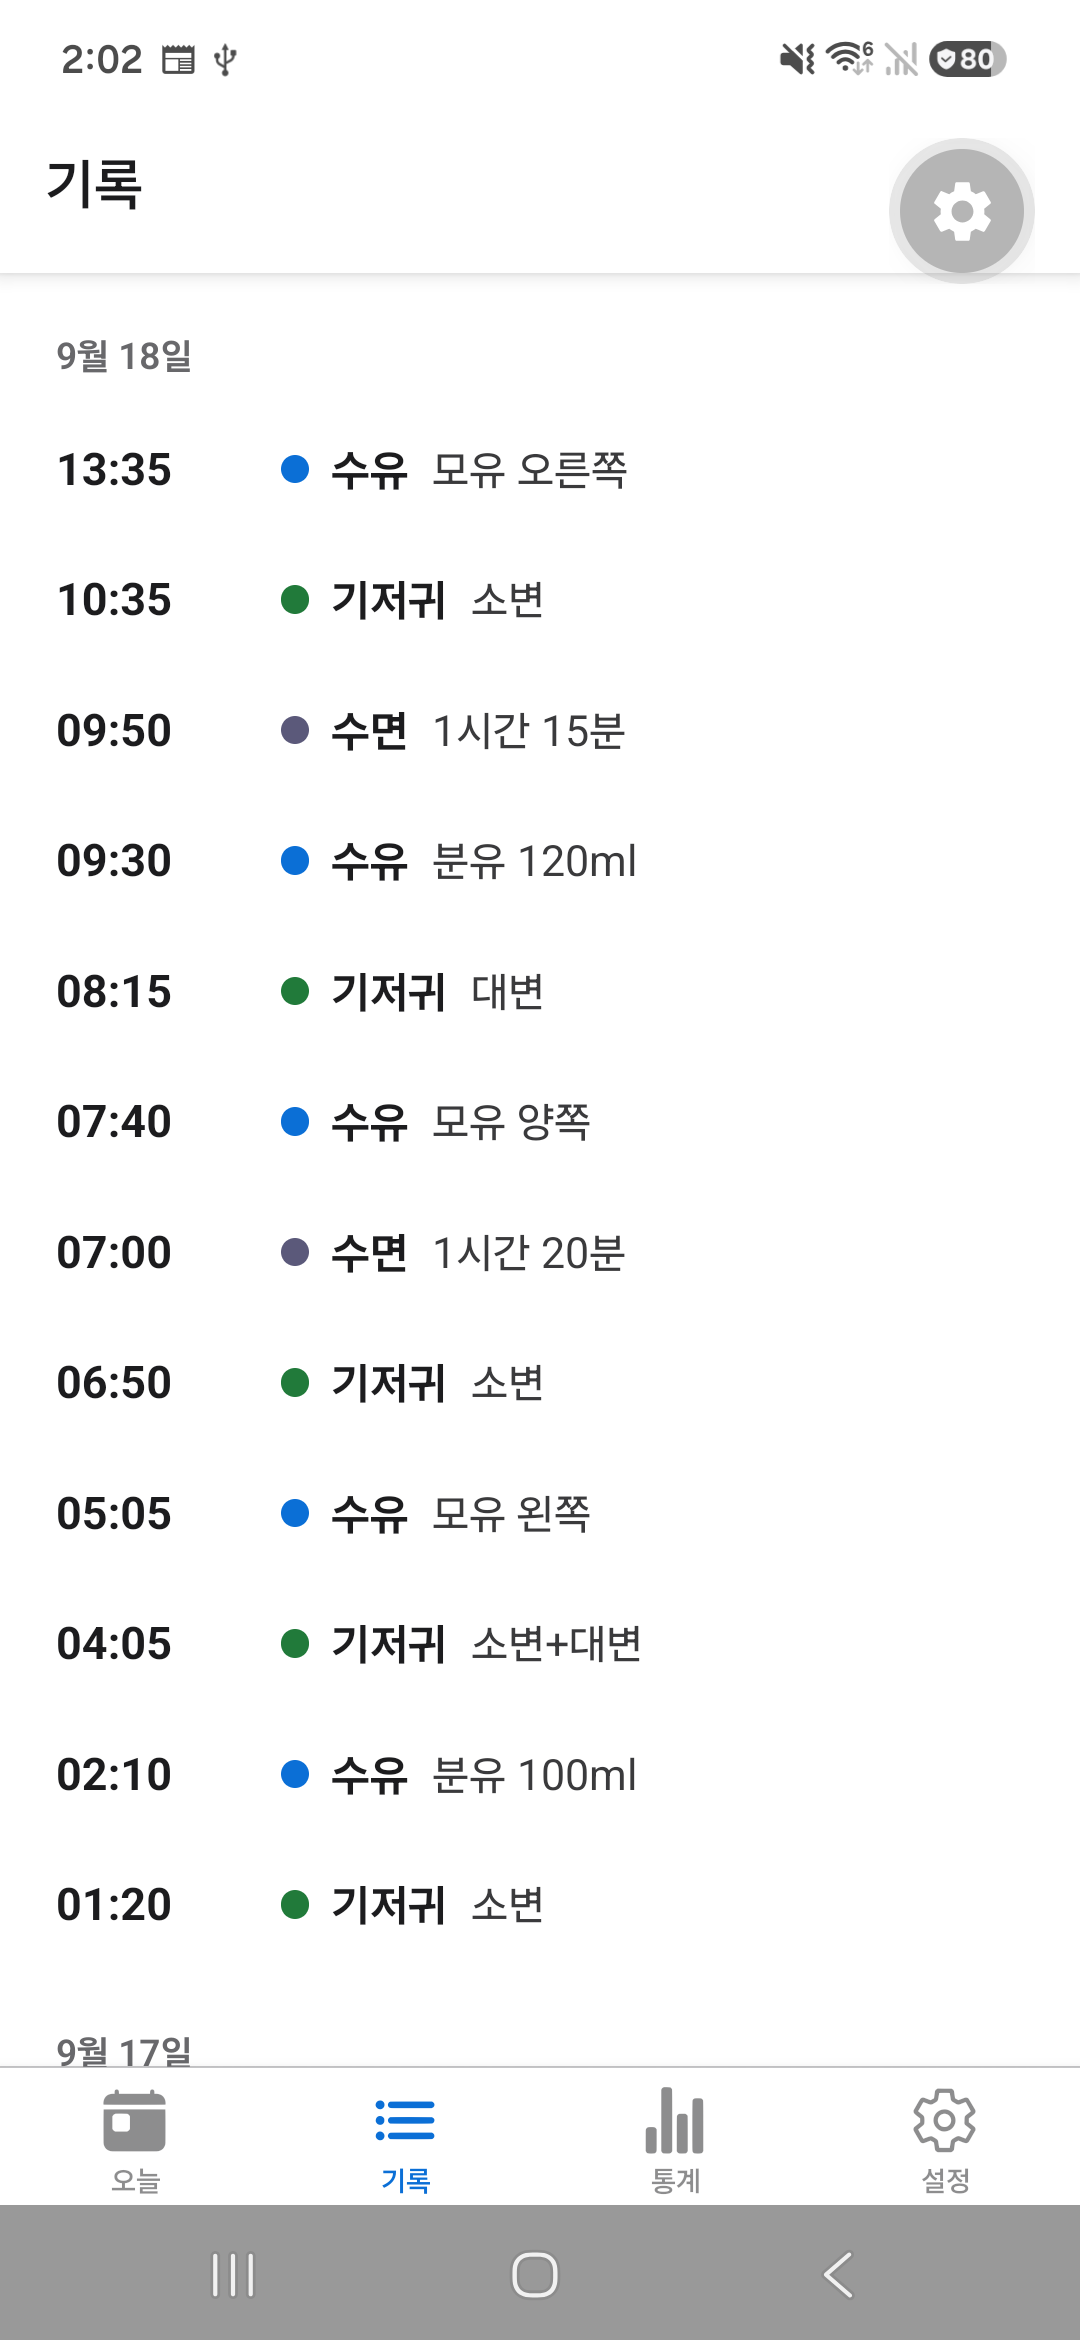
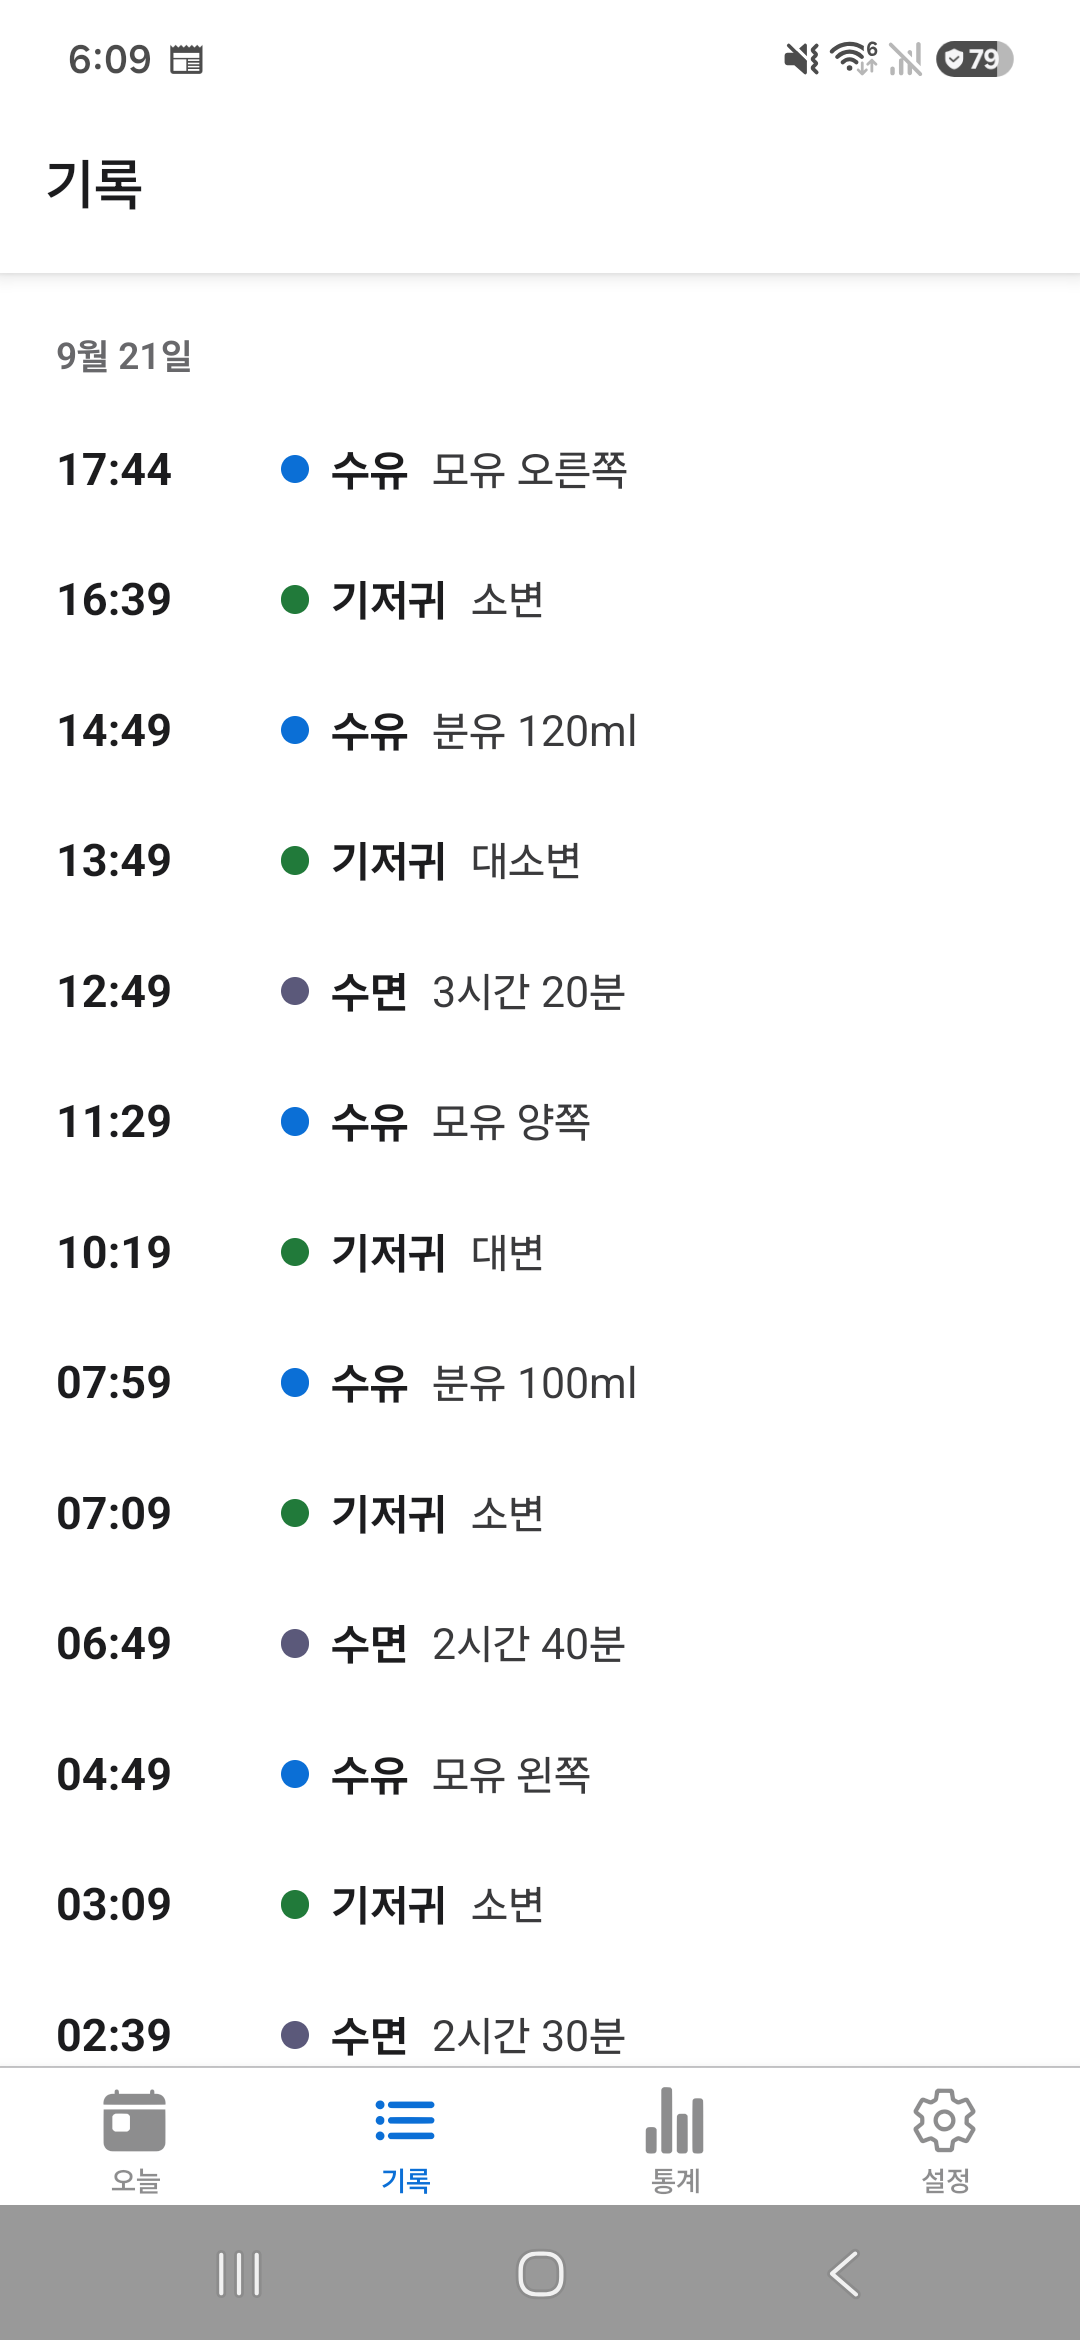
[출시]1.4.0 스크린샷과 등록정보, 데모 시드 스크립트 추가
촬영하려다 **데모 DB를 재생성할 방법이 없다**는 걸 알았다. 기기에 있는 DB가
전부였고 저장소에도 히스토리에도 시드가 없었다. 그게 날아가면 같은 데이터로
다시 찍을 수 없다. `scripts/seed-demo.mjs`가 그 복구 수단이다.

기기 시계를 과거로 돌리는 대신 **기준 시각에서 거꾸로** 배치한다. 시계를
되돌리면 다른 앱까지 영향을 받고, 복구를 잊으면 그때부터 미래 기록이 쌓인다.
재현성은 "같은 기준 시각을 주면 같은 DB가 나온다"는 뜻이다 —
`--reference-time`을 주면 고정되고, 생략하면 실행 시각을 쓴다. 덕분에 언제
찍어도 `마지막 수유`가 `25분 전`으로 나온다.

시드가 지키는 것:
- 달력 값으로 시각을 만든다. 자정 epoch에 분을 더하면 서머타임 전환일에
  한 시간 어긋난다 — 뉴욕 11/1에 `13:35`가 `12:35`가 된다
- 오늘 수유 5건·기저귀 5건·수면 3건 510분·분유 220ml·마지막 수유 25분 전·
  수면 겹침 0건·미래 기록 0건을 검사하고, 어긋나면 SQL을 내보내지 않는다.
  이른 시각에 돌리면 오늘 기록 일부가 어제로 넘어가는데, 그 상태로 찍힌
  스크린샷은 되돌릴 수 없다
- 네 테이블을 지우므로 `--confirm-demo-reset` 없이는 동작하지 않는다
- WAL 때문에 DB를 단순히 뽑았다 넣으면 깨진다. force-stop·3종 백업·
  체크포인트·무결성 확인까지 절차를 주석에 적었다

수면을 하루 세 건으로 둔다. 여섯 건이면 기록 목록 열 몇 줄이 전부 수면이라
수면 앱처럼 보인다. 합계 510분은 그대로라 오늘 요약과 통계 값은 안 바뀐다.

스크린샷은 Today와 기록 두 장을 교체한다. Today는 카드 구성이 바뀌었고,
기록은 `소변+대변`이 `대소변`으로 바뀌어 옛 이미지가 제품과 달라졌다.
통계·입력 화면은 그대로다 — 화면이 바뀌지 않았고, 스토어 스크린샷끼리
날짜가 달라도 기능적으로 모순되지 않는다.

diff --git a/src/lib/feedback.ts b/src/lib/feedback.ts
@@ -26,8 +26,8 @@ import { AccessibilityInfo, Platform, ToastAndroid } from 'react-native';
  */
 export function showSuccessMessage(message: string): void {
   if (Platform.OS === 'android') {
-    // 시스템 Toast의 접근성 처리에 맡기고 따로 낭독하지 않는다 — 중복해서 읽힐
-    // 수 있다. **기기·버전별 TalkBack 동작은 검증하지 않았다.**
+    // Android는 시스템 Toast의 접근성 처리를 사용한다.
+    // 별도 낭독은 중복될 수 있어 호출하지 않는다.
     ToastAndroid.show(message, ToastAndroid.SHORT);
     return;
   }

diff --git a/docs/store/listing-ko.md b/docs/store/listing-ko.md
@@ -7,15 +7,13 @@
 수유·기저귀·수면을 한 손으로 기록하는 육아 기록장. 계정도 광고도 없습니다.
 
 ## 자세한 설명 (4000자)
-아기의 하루를 한 손으로 기록합니다.
-
-수유하고, 기저귀 갈고, 재우는 사이에 앱을 오래 붙잡고 있을 수는 없습니다.
-안녕아가는 화면을 열자마자 지금 필요한 숫자를 보여주고, 기록 하나를 두세 번의 터치로 끝냅니다.
+안녕아가는 수유, 기저귀, 수면을 빠르게 기록하는 육아 기록 앱입니다.
+자주 쓰는 기록은 버튼 한 번으로 끝냅니다.
 
 ■ 오늘 화면
-· 마지막 수유로부터 얼마나 지났는지
-· 오늘의 수유 횟수, 잔 시간, 분유량
-· 수유·기저귀 추가와 수면 시작·종료
+· 마지막 수유로부터 얼마나 지났는지, 오늘 모유·분유 횟수와 분유량
+· 모유(왼쪽·오른쪽·양쪽)와 기저귀(소변·대변·대소변)를 버튼 한 번으로 기록
+· 오늘 잔 시간과 기저귀 횟수, 수면 시작·종료
 
 ■ 수유
 · 모유는 위치(왼쪽·오른쪽·양쪽)를 고릅니다
